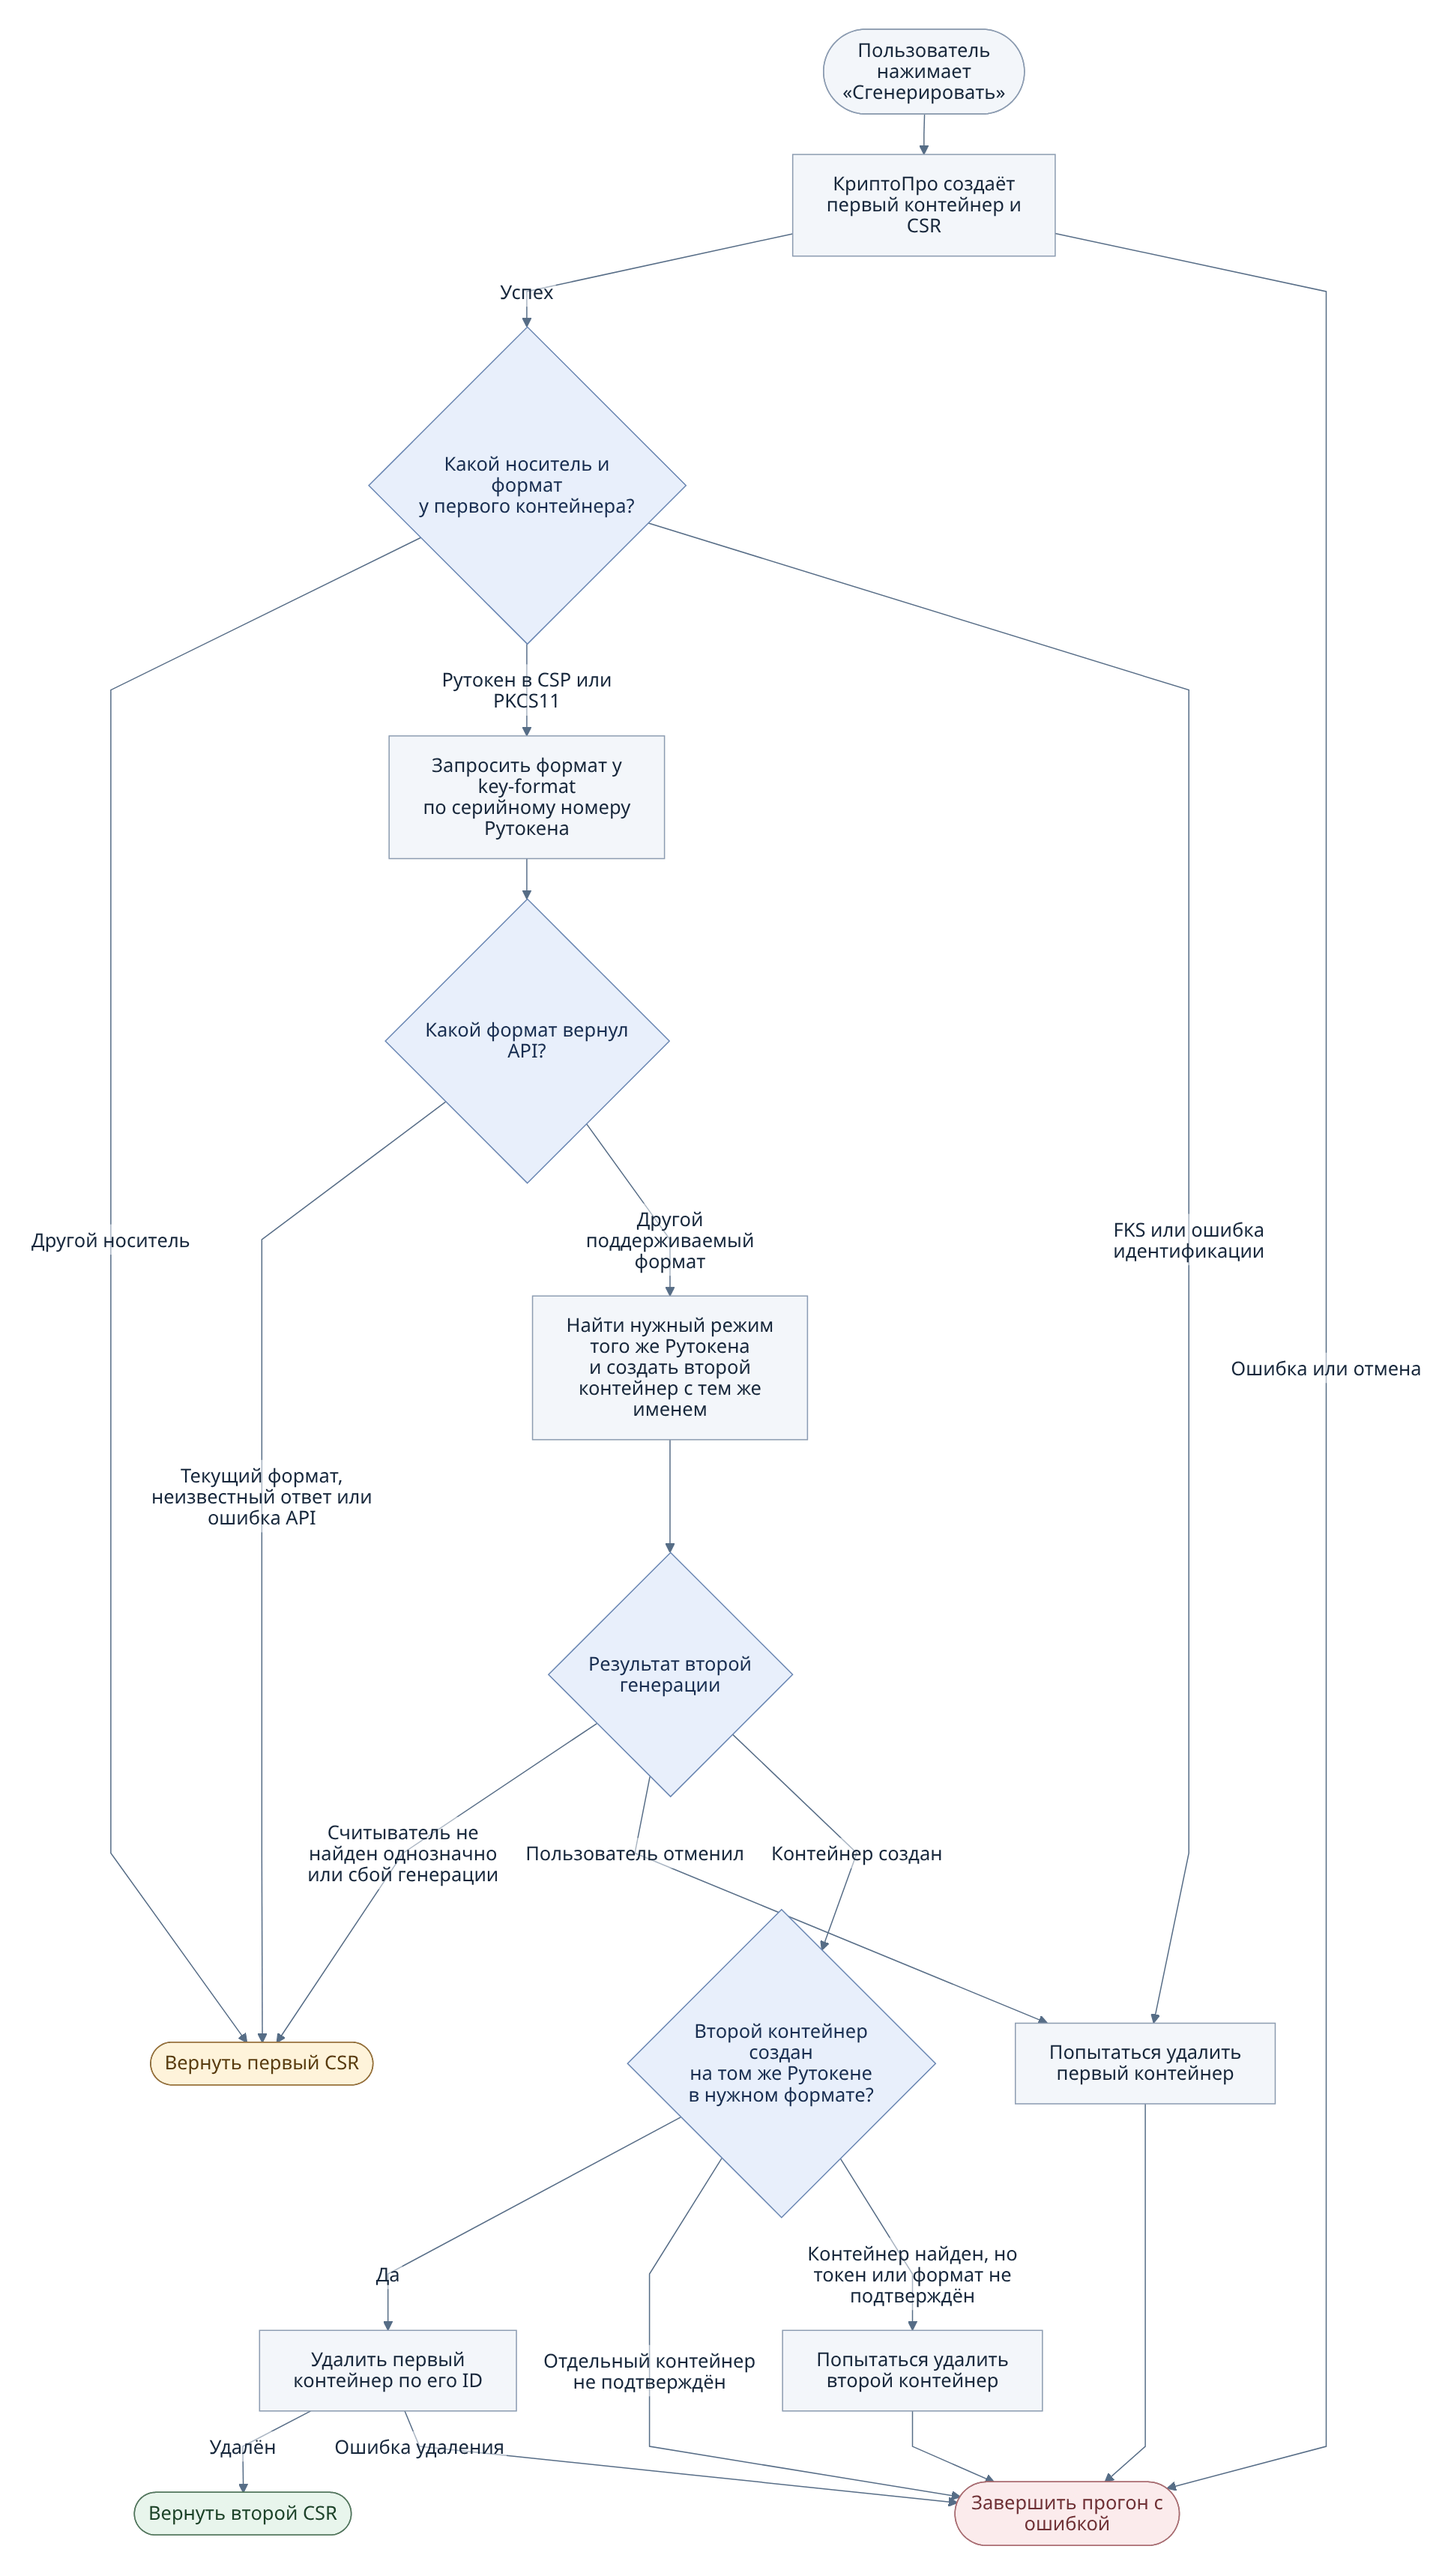
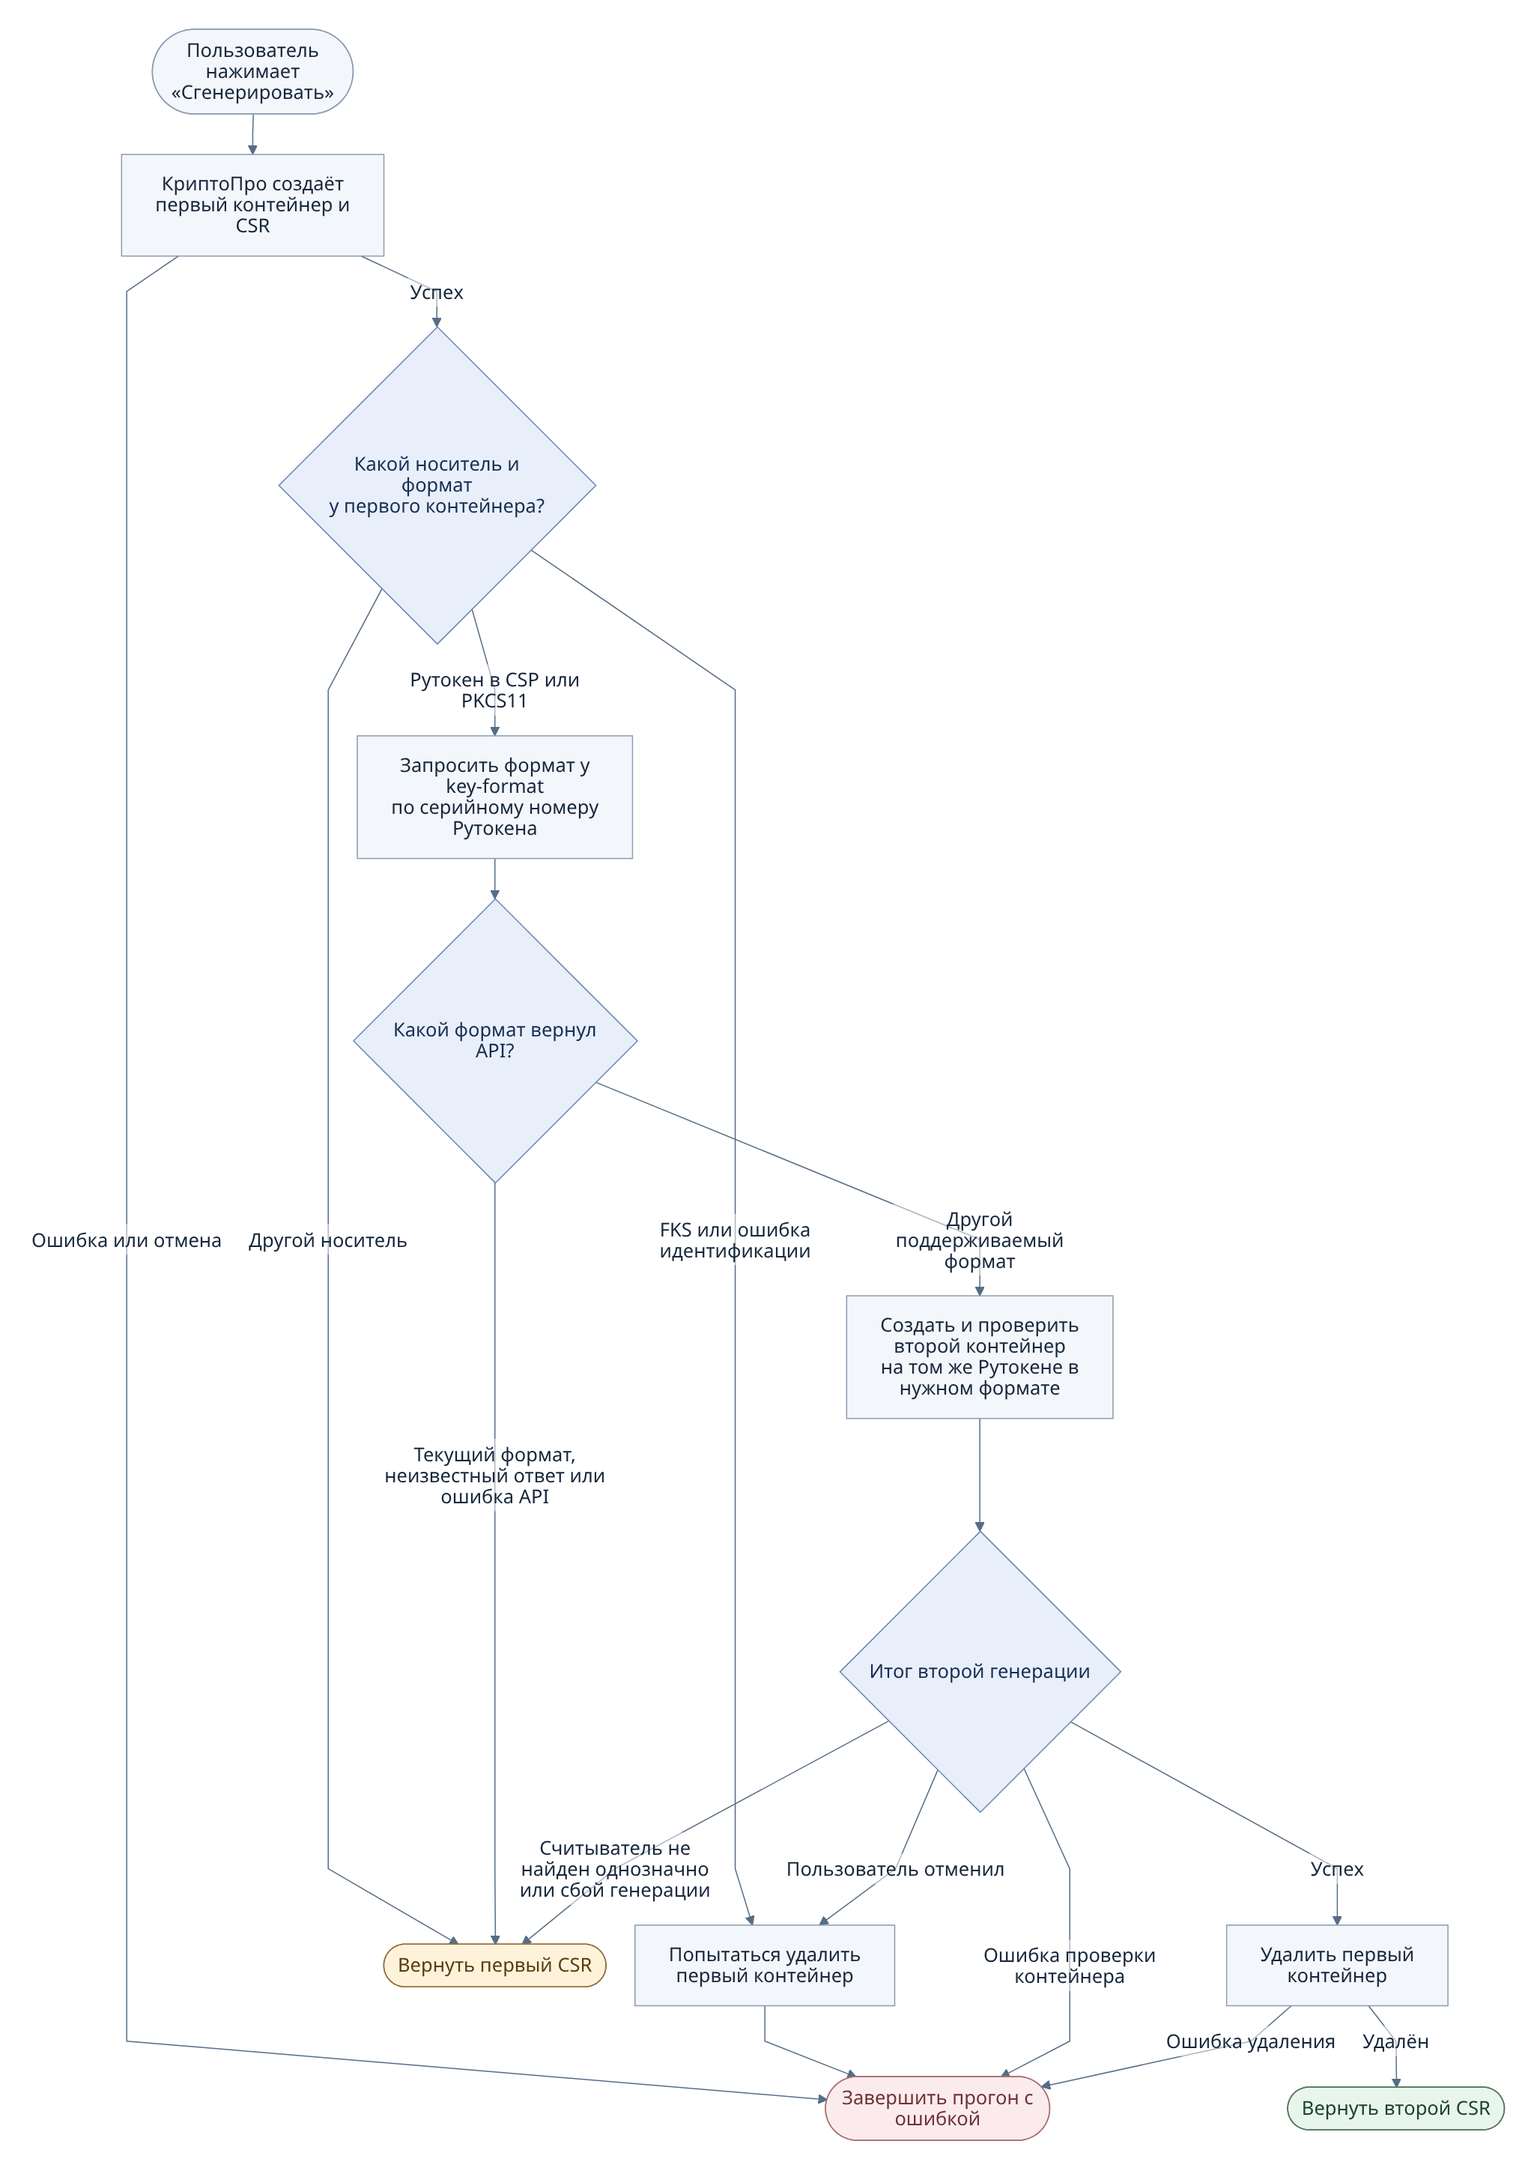
Combine final-container generation and verification in the diagram

diff --git a/reissue/index.html b/reissue/index.html
@@ -47,10 +47,10 @@
     </form>
     <details>
         <summary>Схема генерации ключей</summary>
-        <p><a href="./reissue-flow.png?v=4">Открыть схему в полном размере</a></p>
+        <p><a href="./reissue-flow.png?v=5">Открыть схему в полном размере</a></p>
         <p class="flow-diagram-hint">Прокрутите схему по горизонтали, чтобы увидеть все ветки.</p>
         <div class="flow-diagram" tabindex="0" role="region" aria-label="Блок-схема динамической генерации ключей">
-            <img src="./reissue-flow.png?v=4" width="1940" height="3437" loading="lazy" alt="Блок-схема выбора формата ключа. КриптоПро создаёт первый контейнер. Для Рутокена в режиме CSP или PKCS11 стенд запрашивает формат по серийному номеру. Если API вернул другой поддерживаемый формат, стенд пробует создать второй контейнер на том же токене и с тем же именем. Другой носитель, ошибка API, совпадение формата или сбой второй генерации дают первый CSR. При отмене второй генерации стенд пытается удалить первый контейнер. Второй CSR выдаётся после подтверждения, что второй контейнер создан на том же Рутокене в нужном формате, и после удаления первого контейнера.">
+            <img src="./reissue-flow.png?v=5" width="2048" height="2897" loading="lazy" alt="Блок-схема выбора формата ключа. КриптоПро создаёт первый контейнер. Для Рутокена в режиме CSP или PKCS11 стенд запрашивает формат по серийному номеру. Если API вернул другой поддерживаемый формат, стенд создаёт и проверяет второй контейнер на том же Рутокене. Другой носитель, ошибка API, совпадение формата или сбой второй генерации дают первый CSR. При отмене второй генерации стенд пытается удалить первый контейнер. При ошибке проверки прогон завершается с ошибкой. При успехе стенд удаляет первый контейнер и возвращает второй CSR.">
         </div>
     </details>
     <h2>Журнал</h2>
